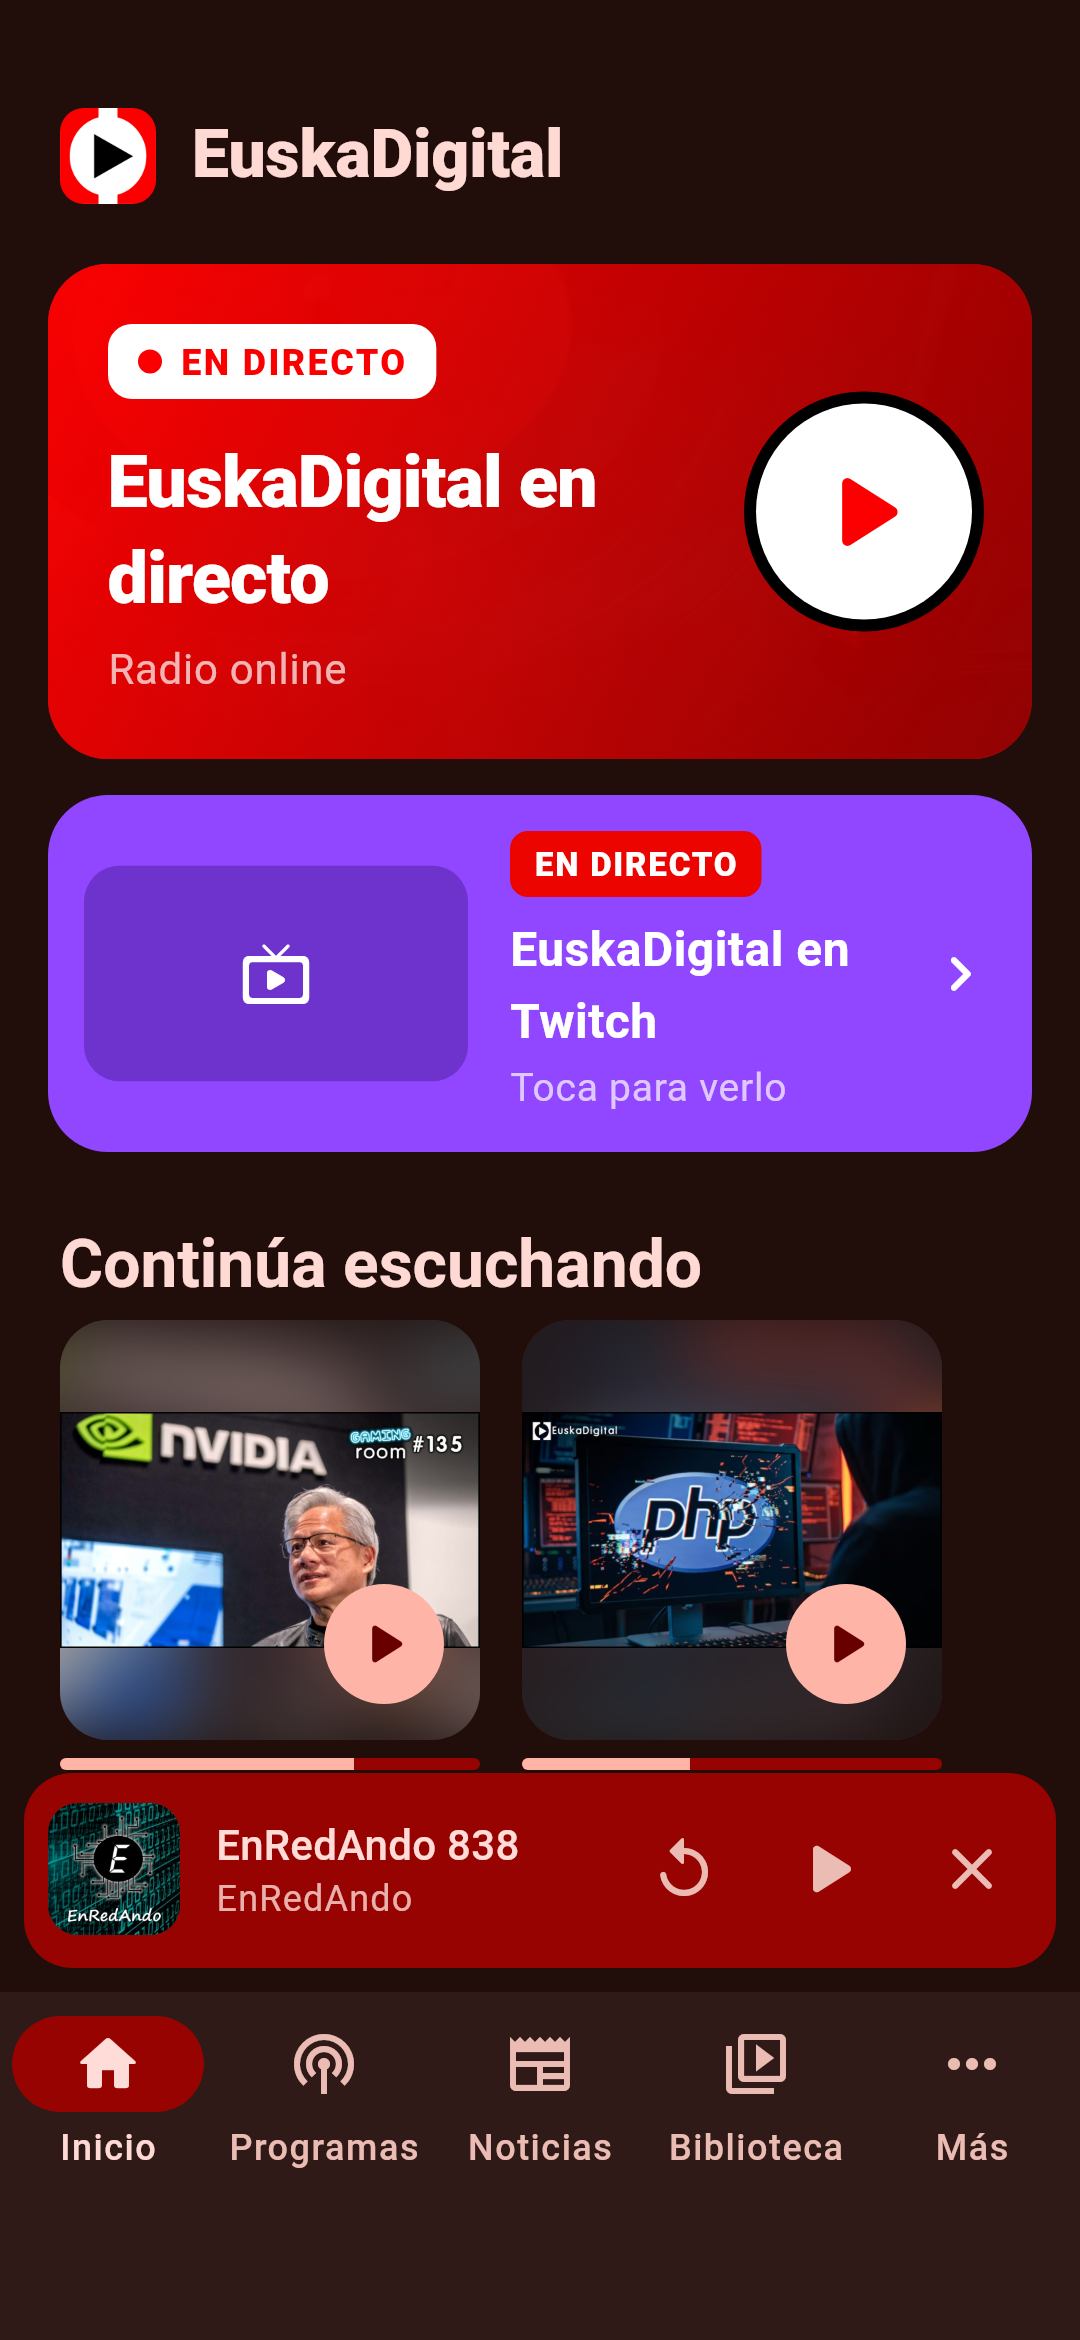
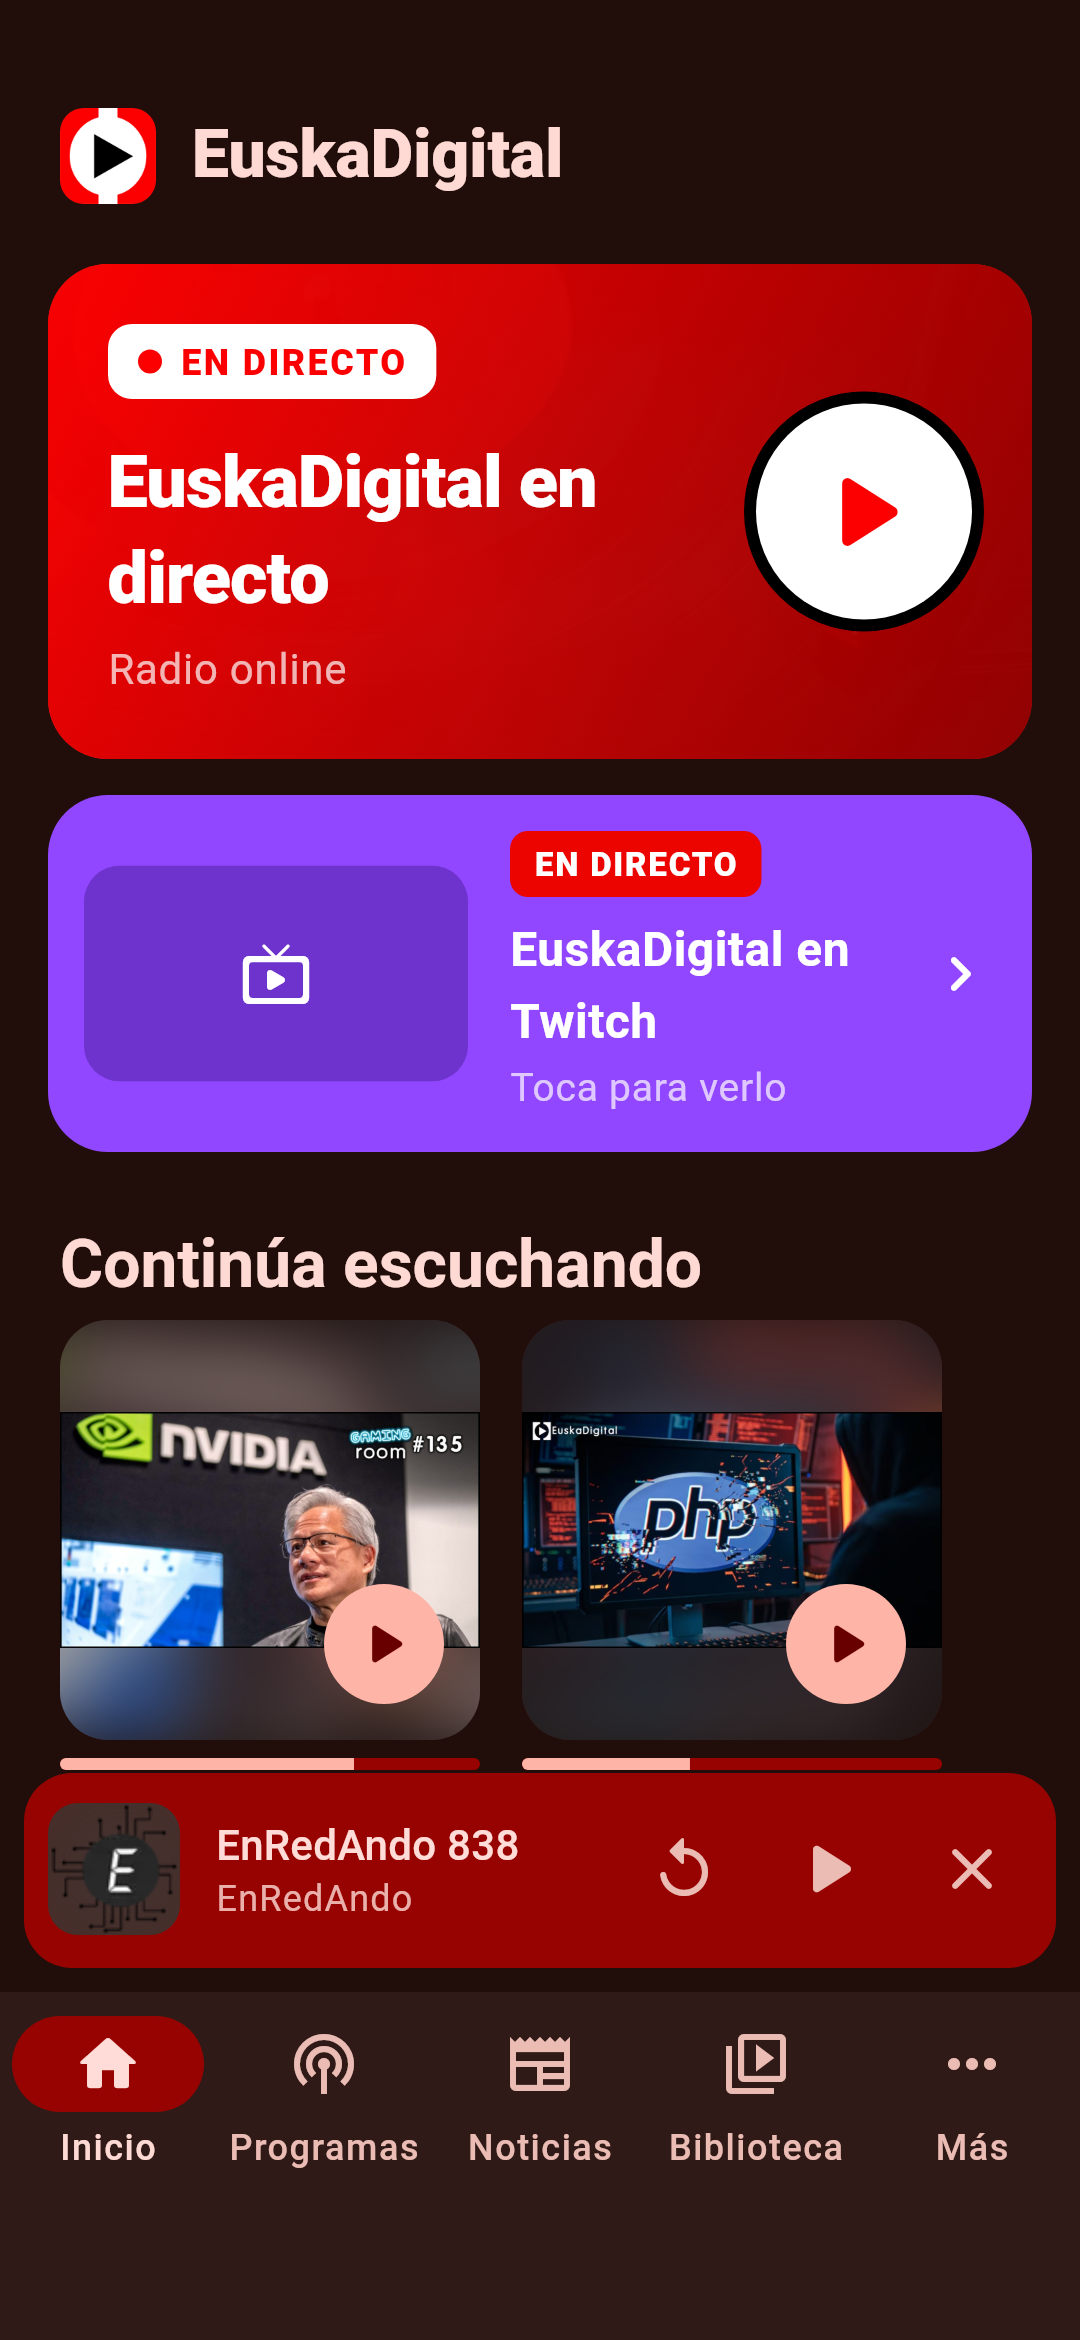
Deshacer: los episodios vuelven a mostrar su propia imagen al reproducirse
La portada del programa solo se usa en el directo, cuando suena uno de
nuestros programas. Revierte 88ba930.

Claude-Session: https://claude.ai/code/session_016dLWWhA75jkREqA1LiHKKV

Changed region(s): [[0.0306, 0.7487, 0.1833, 0.8423]]

diff --git a/lib/services/player_service.dart b/lib/services/player_service.dart
@@ -168,8 +168,7 @@ class PlayerService extends ChangeNotifier {
     }
     _saveCurrentProgress(force: true);
     final title = programTitle ?? _config.programById(e.feedId)?.title ?? _config.name;
-    // Portada del programa; la del episodio solo si no hay otra.
-    final image = programImage ?? e.imageUrl;
+    final image = e.imageUrl ?? programImage;
     _current = NowPlaying(
       id: e.id,
       title: e.title,

diff --git a/lib/ui/widgets/episode_actions.dart b/lib/ui/widgets/episode_actions.dart
@@ -36,8 +36,7 @@ class EpisodeActions {
           e,
           programTitle: v.programTitle,
           fallbackImage: v.fallbackAsset,
-          // Al reproducir se muestra la portada del programa, no la del episodio.
-          programImage: context.read<FeedRepository>().programImage(e.feedId),
+          programImage: v.imageUrl,
         );
   }
 

diff --git a/test/screenshots/screenshots_test.dart b/test/screenshots/screenshots_test.dart
@@ -250,7 +250,6 @@ void main() {
         id: e.id,
         title: e.title,
         subtitle: config.programById(e.feedId)!.title,
-        imageUrl: feeds.programImage(e.feedId),
         fallbackImage: config.programById(e.feedId)!.fallbackImage,
         episode: e,
       ),
